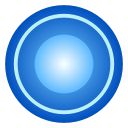
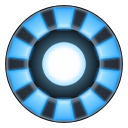
An Iron Man arc reactor for the launcher and tray (v1.0.9)
The icon was a flat blue orb with a silver ellipse that read as a porthole.
The user asked for an Iron Man vibe, so make_icon() now paints a cinematic
arc reactor: a dark gunmetal housing with a machined bevel, ten glowing coil
slots (true annular sectors, white-hot to electric blue, light bleeding off
their edges) around a solid white-hot core in a fading halo with a small
specular glint. Legible down to the 32 px tray size.

One real painting bug: QPainter.drawPath() both strokes and fills, and the
painter still held the housing brush when the slot edge-strokes were drawn,
so the dark metal gradient painted over the slot fill. setBrush(NoBrush)
before the strokes fixed it.

All assets/jarvis-*.png regenerated from the same code and the app-menu
entry reinstalled, so the menu icon updates with the widget and tray.
Tests: 355 passed, 1 skipped (was 354) -- the new pixel tests pin the look
(white-hot core, electric-blue top slot, slot out-glowing the housing).

diff --git a/gui.py b/gui.py
@@ -70,35 +70,132 @@ QPushButton:checked {
 
 
 def make_icon(size=64):
-    """Paint the arc-reactor as a QIcon (used for the window and tray)."""
+    """Paint the Iron Man arc-reactor as a QIcon (window, tray and menu PNGs).
+
+    Built the way Tony Stark's reactor reads on screen: a machined titanium
+    housing with ten glowing coil segments around a white-hot core, all over a
+    dark recessed backplate with a soft bloom. Everything is drawn inside the
+    proportional ``radius`` margin so the housing is never clipped, and the
+    corners stay transparent so it sits cleanly on any panel.
+    """
+    import math
+
     pixmap = QPixmap(size, size)
     pixmap.fill(Qt.transparent)
     painter = QPainter(pixmap)
     painter.setRenderHint(QPainter.Antialiasing)
     center = QPointF(size / 2.0, size / 2.0)
-    # Keep a proportional margin so the sphere is not clipped at large sizes.
+    # Keep a proportional margin so the housing is not clipped at large sizes.
     radius = size / 2.0 - max(1.5, size * 0.04)
-
-    glow = QRadialGradient(center, radius)
-    glow.setColorAt(0.0, QColor(120, 205, 255))
-    glow.setColorAt(1.0, QColor(0, 80, 190))
     painter.setPen(Qt.NoPen)
-    painter.setBrush(QBrush(glow))
+
+    # --- backplate: the recessed carbon disc the whole reactor sits on ------
+    plate = QRadialGradient(center, radius)
+    plate.setColorAt(0.0, QColor(24, 34, 43))
+    plate.setColorAt(0.75, QColor(13, 20, 27))
+    plate.setColorAt(1.0, QColor(3, 6, 10))
+    painter.setBrush(QBrush(plate))
     painter.drawEllipse(center, radius, radius)
 
-    ring = QPen(QColor(185, 240, 255))
-    ring.setWidthF(max(1.0, size * 0.03))
-    painter.setPen(ring)
-    painter.setBrush(Qt.NoBrush)
-    painter.drawEllipse(center, radius * 0.82, radius * 0.82)
+    # a whisper of bloom just inside the rim so the metal reads as "powered"
+    bloom = QRadialGradient(center, radius * 0.85)
+    bloom.setColorAt(0.0, QColor(96, 180, 255, 28))
+    bloom.setColorAt(1.0, QColor(96, 180, 255, 0))
+    painter.setBrush(QBrush(bloom))
+    painter.drawEllipse(center, radius * 0.85, radius * 0.85)
 
-    core_radius = radius * 0.5
+    # --- titanium housing: an annulus with a machined bevel ------------------
+    # The gradient radius spans the whole disc, so each colour stop is a
+    # fraction of `radius`; the ring runs from 0.60 to 0.98. Dark gunmetal:
+    # the glowing slots must be the brightest thing in the icon.
+    housing = QRadialGradient(center, radius)
+    for stop, color in (
+        (0.60, QColor(57, 66, 78)),     # inner bore: shadowed metal
+        (0.645, QColor(107, 122, 140)), # bevel catches the light
+        (0.70, QColor(43, 51, 61)),     # flat of the ring: dark
+        (0.92, QColor(38, 45, 54)),     # flat of the ring
+        (0.965, QColor(92, 103, 116)),  # outer bevel
+        (0.99, QColor(20, 26, 34)),     # dark outer edge
+    ):
+        housing.setColorAt(stop, color)
+
+    from PyQt5.QtGui import QPainterPath
+
+    path = QPainterPath()
+    path.addEllipse(center, radius * 0.98, radius * 0.98)
+    path.addEllipse(center, radius * 0.60, radius * 0.60)
+    painter.setBrush(QBrush(housing))
+    painter.drawPath(path)
+
+    # --- ten coil slots cut into the housing, glowing white-hot to cyan ------
+    slot_path = QPainterPath()
+    half_angle = math.radians(10.5)           # wide slots, thin dark separators
+    inner, outer = radius * 0.615, radius * 0.96
+    # Walk the inner rail left-to-right, then the outer rail right-to-left,
+    # so each polygon goes around its sector exactly once.
+    for segment in range(10):
+        base = math.radians(segment * 36.0) - math.pi / 2.0
+        corners = []
+        for level, sides in ((inner, (-1, 1)), (outer, (1, -1))):
+            for side in sides:
+                theta = base + side * half_angle
+                corners.append(QPointF(
+                    center.x() + level * math.cos(theta),
+                    center.y() + level * math.sin(theta)))
+        slot_path.moveTo(corners[0])
+        for corner in corners[1:]:
+            slot_path.lineTo(corner)
+        slot_path.closeSubpath()
+
+    slot_gradient = QRadialGradient(center, outer)
+    slot_gradient.setColorAt(inner / outer - 0.001, QColor(238, 250, 255))
+    slot_gradient.setColorAt(0.72, QColor(150, 220, 255))
+    slot_gradient.setColorAt(1.0, QColor(66, 175, 255))
+    painter.fillPath(slot_path, QBrush(slot_gradient))
+    # two slim translucent strokes just kiss the slot edges with light; wide
+    # ones would flood the gaps and wash the ring into a uniform band
+    painter.setBrush(Qt.NoBrush)      # drawPath strokes AND fills: no fill wanted
+    for width, alpha in ((0.038, 66), (0.016, 120)):
+        halo_pen = QPen(QColor(40, 170, 255, alpha), max(0.8, size * width))
+        painter.setPen(halo_pen)
+        painter.drawPath(slot_path)
+    painter.setPen(Qt.NoPen)
+
+    # thin machining seams; dim, so they read as shadow lines not chrome
+    rim_pen = QPen(QColor(158, 186, 208, 120))
+    rim_pen.setWidthF(max(0.8, size * 0.010))
+    painter.setPen(rim_pen)
+    painter.setBrush(Qt.NoBrush)
+    painter.drawEllipse(center, radius * 0.618, radius * 0.618)
+    painter.drawEllipse(center, radius * 0.975, radius * 0.975)
+    painter.setPen(Qt.NoPen)
+
+    # --- the palladium core: a solid light disc with a glow halo -------------
+    glow_radius = radius * 0.58
+    glow = QRadialGradient(center, glow_radius)
+    glow.setColorAt(0.0, QColor(205, 242, 255, 235))
+    glow.setColorAt(0.42, QColor(130, 214, 255, 130))
+    glow.setColorAt(1.0, QColor(40, 150, 255, 0))
+    painter.setBrush(QBrush(glow))
+    painter.drawEllipse(center, glow_radius, glow_radius)
+
+    core_radius = radius * 0.37
     core = QRadialGradient(center, core_radius)
     core.setColorAt(0.0, QColor(255, 255, 255))
-    core.setColorAt(1.0, QColor(90, 185, 255))
-    painter.setPen(Qt.NoPen)
+    core.setColorAt(0.70, QColor(250, 253, 255))
+    core.setColorAt(1.0, QColor(168, 224, 255))
     painter.setBrush(QBrush(core))
     painter.drawEllipse(center, core_radius, core_radius)
+
+    # a single specular glint, top-left, like glass over the reactor
+    glint = QPointF(center.x() - core_radius * 0.30,
+                    center.y() - core_radius * 0.30)
+    glint_gradient = QRadialGradient(glint, core_radius * 0.40)
+    glint_gradient.setColorAt(0.0, QColor(255, 255, 255, 110))
+    glint_gradient.setColorAt(1.0, QColor(255, 255, 255, 0))
+    painter.setBrush(QBrush(glint_gradient))
+    painter.drawEllipse(glint, core_radius * 0.40, core_radius * 0.40)
+
     painter.end()
     return QIcon(pixmap)
 

diff --git a/test_gui.py b/test_gui.py
@@ -466,3 +466,26 @@ def test_icon_has_a_margin_so_it_is_never_clipped(app):
 
     center = image.pixelColor(128, 128)
     assert center.alpha() > 0, "the core must be painted"
+
+
+def test_icon_looks_like_a_lit_reactor(app):
+    """The Iron Man look: glowing coil slots around a white-hot core."""
+    image = gui.make_icon(256).pixmap(256, 256).toImage()
+    radius = 128.0 - max(1.5, 256 * 0.04)
+
+    # The core: white-hot, not pale blue.
+    core = image.pixelColor(128, 128)
+    assert min(core.red(), core.green(), core.blue()) > 230, \
+        f"the core centre must be white-hot, got {core.name()}"
+
+    # The coil slot that points straight up, sampled halfway along its length.
+    slot = image.pixelColor(128, round(128 - 0.787 * radius))
+    assert slot.alpha() == 255 and slot.blue() > 190, \
+        f"the top slot must glow electric blue, got {slot.name()}"
+
+    # Half a pitch away (between two slots) the housing must be darker: the
+    # glowing wedges only read as Iron Man when the metal is gunmetal.
+    gap = image.pixelColor(157, 40)
+    assert gap.alpha() > 0
+    assert gap.value() < slot.value() - 30, \
+        f"the slot must out-glow the housing, slot {slot.name()} vs gap {gap.name()}"

diff --git a/config.py b/config.py
@@ -6,7 +6,7 @@ from dotenv import load_dotenv
 
 load_dotenv()
 
-__version__ = "1.0.8"
+__version__ = "1.0.9"
 
 # Groq (https://console.groq.com) exposes an OpenAI-compatible Chat Completions
 # API. The key is read from GROQ_API_KEY in .env; Groq keys start with "gsk_".

diff --git a/progress.md b/progress.md
@@ -29,7 +29,7 @@ is installed.
 | Timers / reminders | Working |
 | Offline wake word ("Hey Jarvis") | **Built + unit-tested; NOT yet verified live** (needs `pip install openwakeword onnxruntime`) |
 | Desktop launcher (`run.sh` + app-menu entry) | Working (verified: `desktop-file-validate` clean, GUI starts) |
-| Tests | `pytest` suite — **354 passed, 1 skipped** |
+| Tests | `pytest` suite — **355 passed, 1 skipped** |
 | Spoken voice | `en-GB-RyanNeural` (British male); override with `JARVIS_TTS_VOICE` |
 | Published | GitHub, tags **`v1.0.1`**…**`v1.0.7`** (README + MIT LICENSE) |
 
@@ -47,8 +47,35 @@ is installed.
   `run.sh`, an application-menu entry and autostart), **`v1.0.7`** (a stronger,
   Iron-Man voice: the British male `en-GB-RyanNeural`, env-switchable) and
   **`v1.0.8`** (continuous conversation: Jarvis keeps the mic open after every
-  reply until you go quiet, say "bye", press Stop or mute).
+  reply until you go quiet, say "bye", press Stop or mute) and **`v1.0.9`**
+  (an Iron Man arc-reactor icon: gunmetal housing, ten glowing coil slots and
+  a white-hot core, regenerated into all `assets/*.png`).
 - Secrets are **not** committed (see *Security* below).
+
+## An Iron Man arc-reactor icon (2026-10-19, v1.0.9)
+
+The user asked for an icon with a real "Iron Man vibe" — to look at it and feel
+like Tony Stark. The old icon was a flat blue orb with a silver ellipse: it read
+as a porthole. The new one is a cinematic arc reactor, drawn by `gui.make_icon()`:
+
+- **A dark gunmetal housing** (a machined bevelled annulus, painted as a
+  `QPainterPath` with an interpolated radial-gradient ring) so the only bright
+  pixels are light, not metal.
+- **Ten glowing coil slots** — true annular sectors (0.615–0.96 of the radius,
+  10.5 degree half-angles) filled white-hot to electric blue, plus two slim
+  translucent edge strokes that read as light bleeding off the coils.
+- **A white-hot core**: a solid white disc inside a fading light halo, with a
+  small specular glint.
+- **One real bug found while iterating:** `QPainter.drawPath()` both strokes and
+  fills, and the painter was still holding the housing brush when the slot
+  strokes were drawn — the housing gradient was painting over the slot fill,
+  which is why earlier renders read as dark tiles. `setBrush(Qt.NoBrush)` before
+  the strokes fixed it.
+- All five `assets/jarvis-*.png` regenerated and `install_desktop.py` re-run, so
+  the app-menu entry shows the new icon immediately. New pixel tests pin the
+  look: a white-hot core (min(R,G,B) > 230), an electric-blue top slot
+  (B > 190) and a slot that clearly out-glows its housing gap.
+- `pytest`: **355 passed, 1 skipped** (was 354).
 
 ## Continuous conversation, like ChatGPT's voice mode (2026-10-19, v1.0.8)
 

diff --git a/README.md b/README.md
@@ -1,6 +1,6 @@
 # Jarvis — Voice Assistant for Linux
 
-**Version 1.0.8**
+**Version 1.0.9**
 
 A voice-controlled desktop assistant for Linux that can *see* your screen, use the
 internet, and operate the terminal. You speak a command; Jarvis either handles it
@@ -17,6 +17,14 @@ confirmation-gated everywhere. When a tool is missing it will *print* a
 copy-paste install command for you to run yourself, but it never executes one.
 
 ---
+
+## What's new in 1.0.9
+
+- **An Iron Man face for Jarvis.** The icon is now a proper arc reactor, built
+  the way Tony Stark's reads on screen: a dark gunmetal housing, **ten glowing
+  coil slots** around a **white-hot core** with a light halo. Rendered with the
+  same code for the widget, the tray, the app-menu and every committed
+  `assets/jarvis-*.png`, so they can never drift apart. Legible down to 32 px.
 
 ## What's new in 1.0.8
 
@@ -479,7 +487,7 @@ confirmation first, then tries the router, and only sends a miss to the agent.
 | `doctor.py` | Readiness self-check. Prints a copy-paste install line for missing tools (never runs it), and the wake-word status. |
 | `install_desktop.py` | Adds/removes the application-menu entry (and optionally autostart), pointing at this checkout. Writes only inside your own home directory; `--uninstall` is exact. |
 | `run.sh` | Starts the GUI through the project's virtualenv without needing `cd`. |
-| `assets/jarvis-*.png` | The arc-reactor icon at 32-256 px, generated from `gui.make_icon()`. |
+| `assets/jarvis-*.png` | The Iron Man arc-reactor icon at 32-256 px, generated from `gui.make_icon()`. |
 | `test_mic.py` | Standalone mic diagnostic. |
 
 ### Tools (40)
